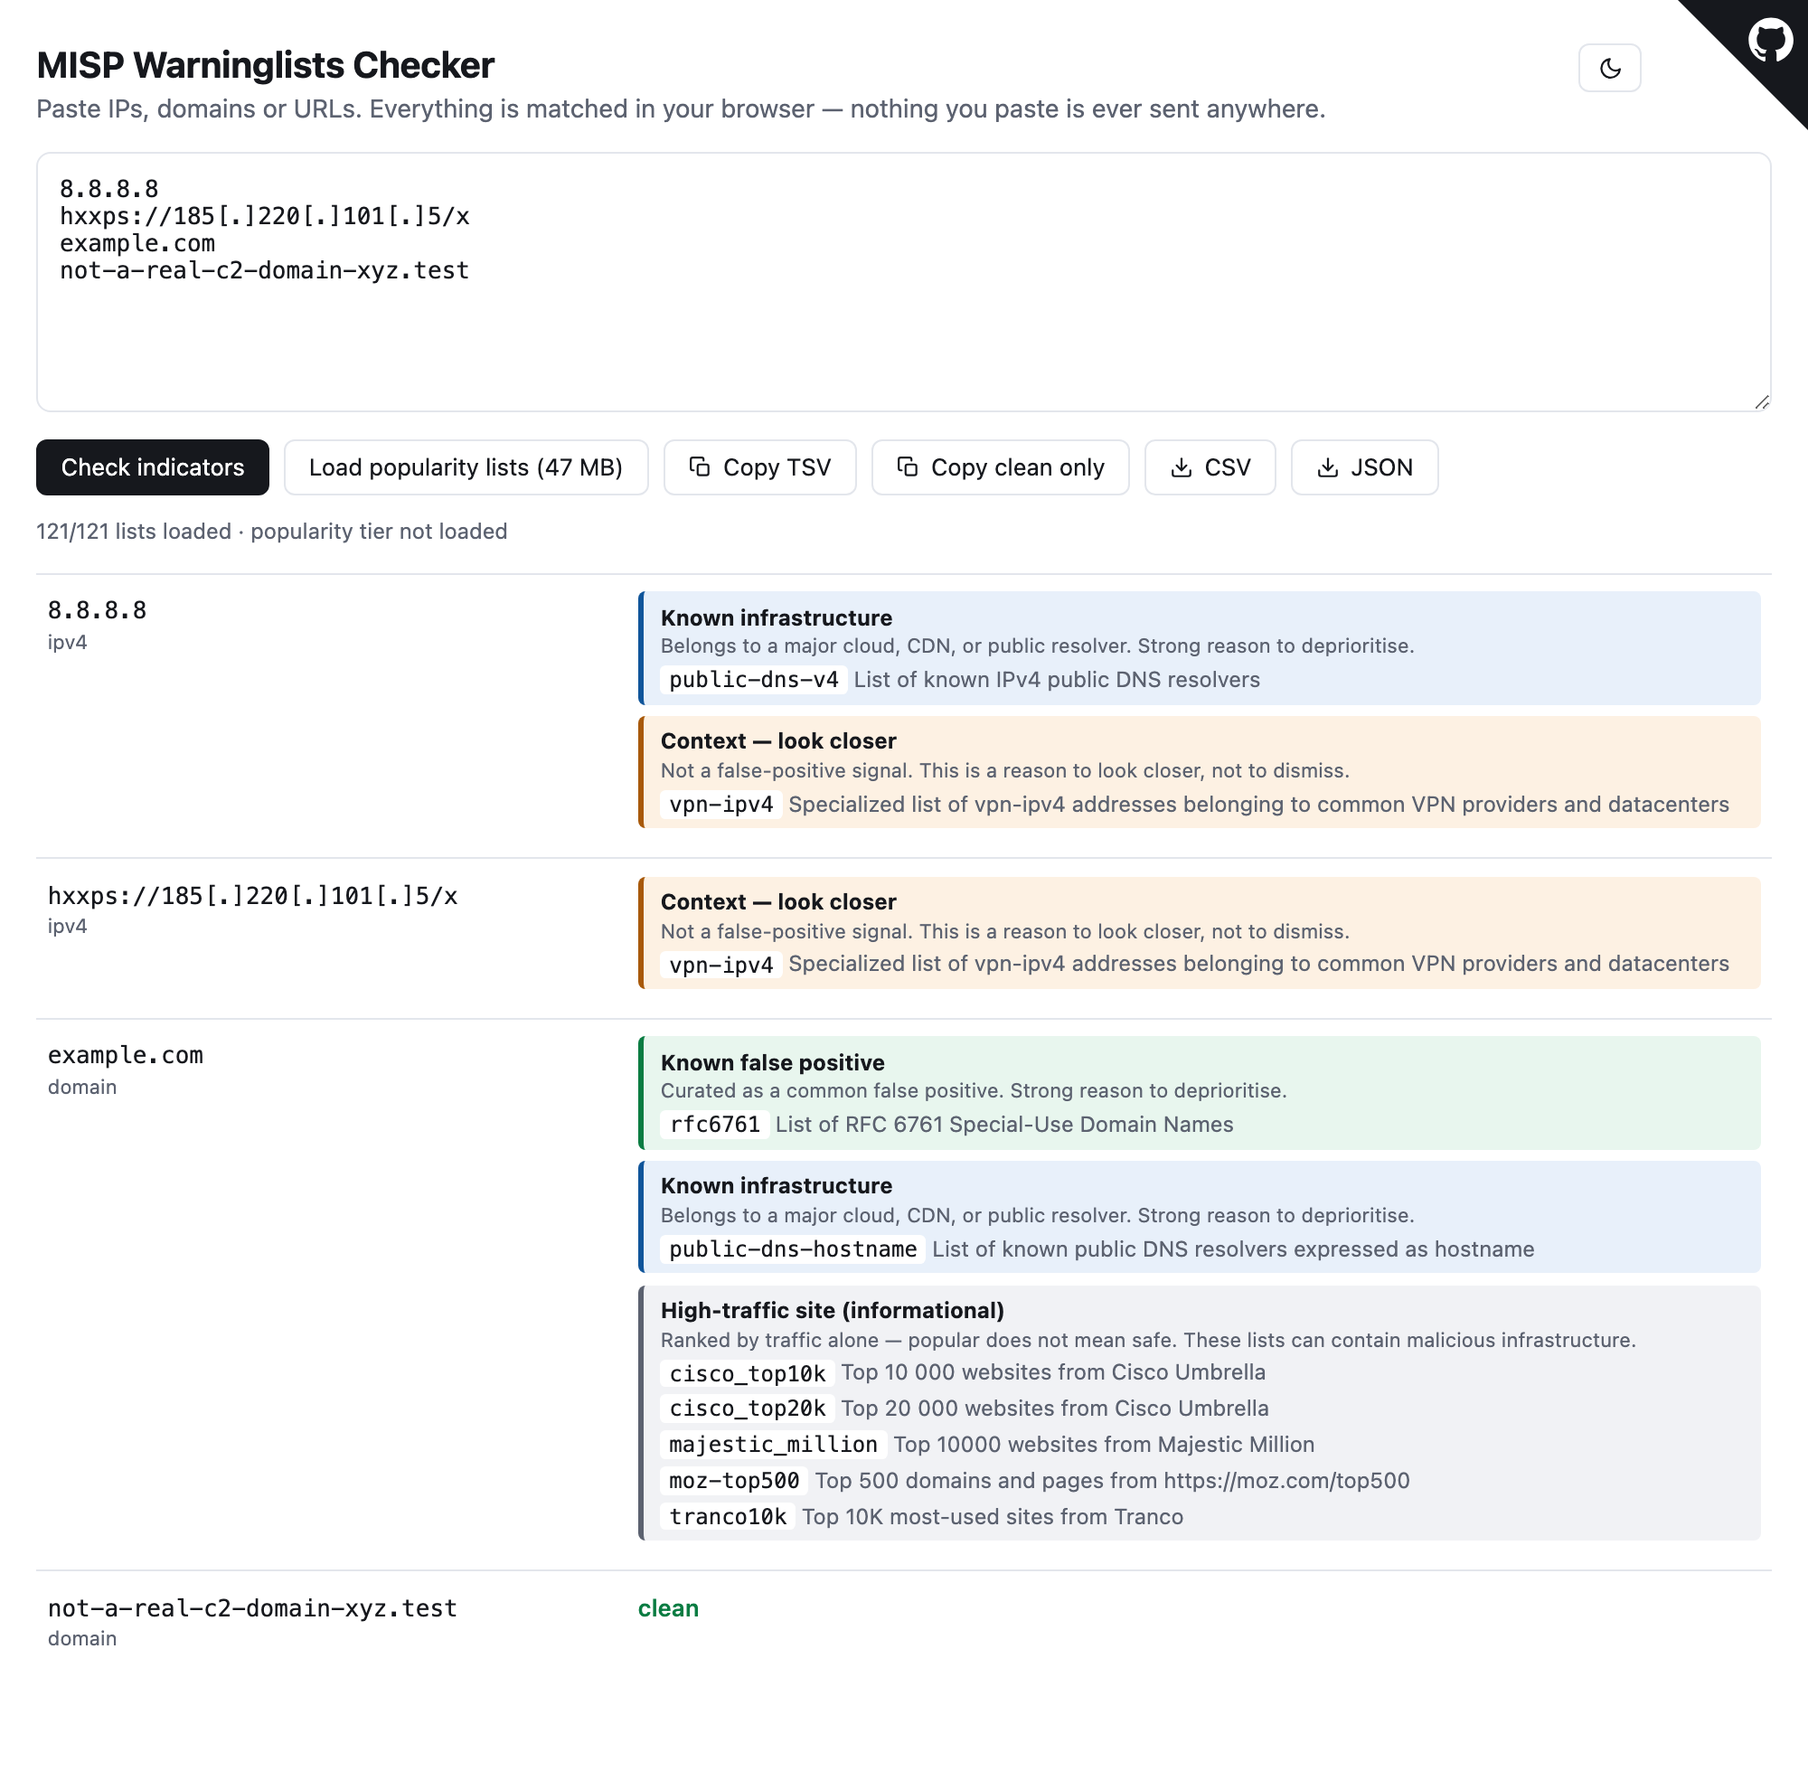
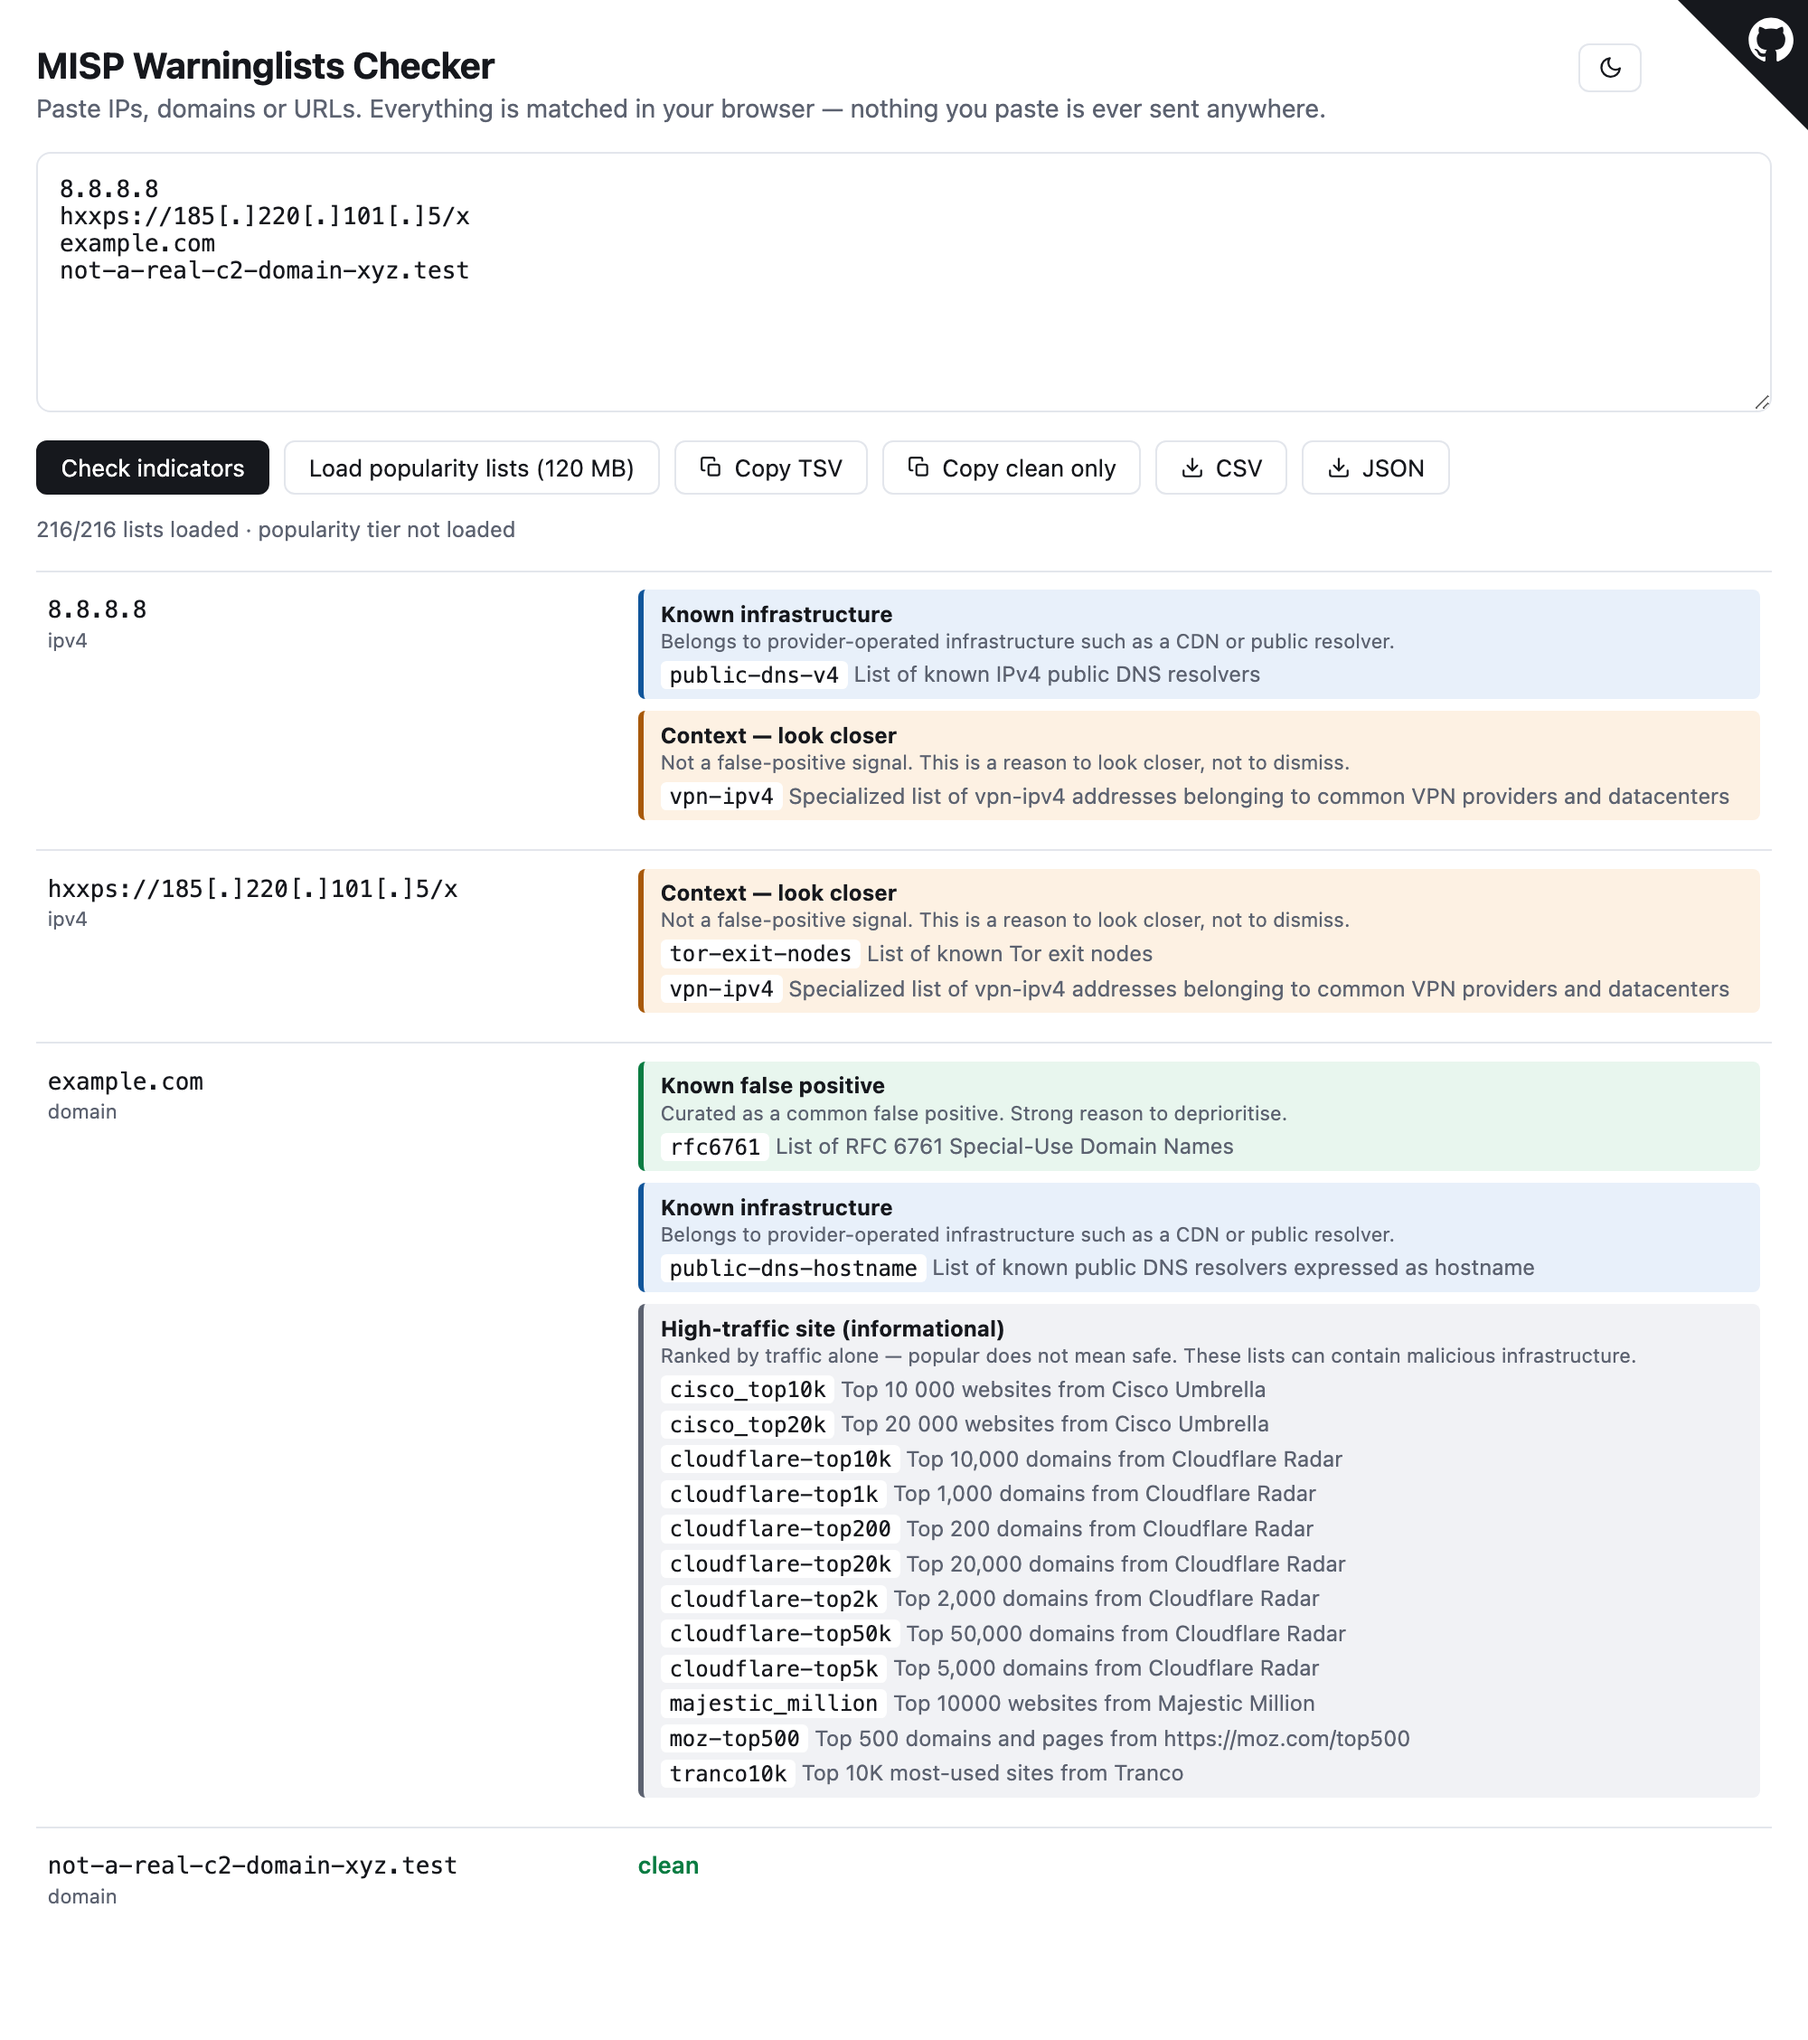
fix: treat rentable hosting as context

diff --git a/scripts/build-catalog.ts b/scripts/build-catalog.ts
@@ -16,22 +16,19 @@ const HEAVY = new Set([
 ])
 
 const INFRASTRUCTURE = new Set([
-  'akamai', 'amazon-aws', 'apple', 'cloudflare', 'fastly', 'github', 'google',
-  'google-gcp', 'google-gmail-sending-ips', 'googlebot', 'microsoft',
-  'microsoft-azure', 'microsoft-azure-appid', 'microsoft-azure-china',
-  'microsoft-azure-germany', 'microsoft-azure-us-gov', 'microsoft-office365',
+  'akamai', 'apple', 'cloudflare', 'fastly', 'github', 'google',
+  'google-gmail-sending-ips', 'googlebot', 'microsoft',
+  'microsoft-azure-appid', 'microsoft-office365',
   'microsoft-office365-cn', 'microsoft-office365-ip',
   'microsoft-win10-connection-endpoints', 'mozilla-CA', 'mozilla-IntermediateCA',
-  'ovh-cluster', 'public-dns-hostname', 'public-dns-v4', 'public-dns-v6',
+  'public-dns-hostname', 'public-dns-v4', 'public-dns-v6',
   'smtp-receiving-ips', 'smtp-sending-ips', 'stackpath', 'telegram-ips',
   'tenable-cloud-ipv4', 'tenable-cloud-ipv6', 'wikimedia', 'zscaler',
   'crl-hostname', 'crl-ip', 'captive-portals', 'openai-gptbot',
-  'alibaba-cloud', 'apple-domains', 'apple-ipv4', 'apple-ipv6', 'bunny-net',
-  'cachefly', 'cdn77', 'coreweave', 'digitalocean', 'gcore', 'godaddy',
-  'hetzner', 'huawei-cloud', 'ibm-cloud', 'imperva', 'leaseweb', 'linode',
-  'microsoft-mdca-proxy', 'microsoft-win11-connection-endpoints', 'oracle-oci',
-  'palo-alto-networks-cortex-cloud', 'rackspace', 'salesforce', 'scaleway',
-  'sucuri', 'tencent-cloud', 'vultr',
+  'apple-domains', 'apple-ipv4', 'apple-ipv6', 'bunny-net', 'cachefly', 'cdn77',
+  'gcore', 'imperva', 'microsoft-mdca-proxy',
+  'microsoft-win11-connection-endpoints', 'palo-alto-networks-cortex-cloud',
+  'salesforce', 'sucuri',
 ])
 
 const KNOWN_FP = new Set([
@@ -63,6 +60,12 @@ const CONTEXT = new Set([
   'umich-cse-connection-attempts', 'palo-alto-networks-cortex-xpanse',
   'common-contact-emails', 'phone_numbers',
   'tor-exit-nodes', 'icloud-private-relay', 'driftnet',
+  // These ranges identify a hosting provider, not whether its current tenant is benign.
+  'alibaba-cloud', 'amazon-aws', 'coreweave', 'digitalocean', 'godaddy',
+  'google-gcp', 'hetzner', 'huawei-cloud', 'ibm-cloud', 'leaseweb', 'linode',
+  'microsoft-azure', 'microsoft-azure-china', 'microsoft-azure-germany',
+  'microsoft-azure-us-gov', 'oracle-oci', 'ovh-cluster', 'rackspace',
+  'scaleway', 'tencent-cloud', 'vultr',
 ])
 
 /**

diff --git a/src/core/catalog.test.ts b/src/core/catalog.test.ts
@@ -4,18 +4,25 @@ import catalog from '../catalog.json'
 import { LOAD_TIERS, TIERS, type CatalogEntry } from './types'
 
 describe('assignTier', () => {
-  it('classifies cloud and CDN ranges as infrastructure', () => {
+  it('classifies provider-operated services as infrastructure', () => {
     expect(assignTier('cloudflare', 'cidr', ['ip-src'])).toBe('infrastructure')
-    expect(assignTier('amazon-aws', 'cidr', ['ip-src'])).toBe('infrastructure')
-    expect(assignTier('microsoft-azure', 'cidr', ['ip-src'])).toBe('infrastructure')
     expect(assignTier('public-dns-v4', 'cidr', ['ip-src'])).toBe('infrastructure')
     expect(assignTier('apple-domains', 'hostname', ['domain'])).toBe('infrastructure')
     expect(assignTier('apple-ipv4', 'cidr', ['ip-src'])).toBe('infrastructure')
     expect(assignTier('apple-ipv6', 'cidr', ['ip-src'])).toBe('infrastructure')
-    expect(assignTier('oracle-oci', 'cidr', ['ip-src'])).toBe('infrastructure')
     expect(assignTier('bunny-net', 'cidr', ['ip-src'])).toBe('infrastructure')
     expect(assignTier('microsoft-mdca-proxy', 'hostname', ['domain'])).toBe('infrastructure')
     expect(assignTier('palo-alto-networks-cortex-cloud', 'cidr', ['ip-src'])).toBe('infrastructure')
+  })
+
+  it.each([
+    'alibaba-cloud', 'amazon-aws', 'coreweave', 'digitalocean', 'godaddy',
+    'google-gcp', 'hetzner', 'huawei-cloud', 'ibm-cloud', 'leaseweb', 'linode',
+    'microsoft-azure', 'microsoft-azure-china', 'microsoft-azure-germany',
+    'microsoft-azure-us-gov', 'oracle-oci', 'ovh-cluster', 'rackspace',
+    'scaleway', 'tencent-cloud', 'vultr',
+  ])('classifies tenant-rentable provider %s as context', (name) => {
+    expect(assignTier(name, 'cidr', ['ip-src'])).toBe('context')
   })
 
   it('classifies curated false-positive lists as known-fp', () => {

diff --git a/src/ui/render.test.ts b/src/ui/render.test.ts
@@ -23,6 +23,10 @@ describe('TIER_META', () => {
     expect(TIER_META.context.caption.toLowerCase()).toContain('look closer')
   })
 
+  it('does not tell analysts to deprioritise infrastructure hits', () => {
+    expect(TIER_META.infrastructure.caption.toLowerCase()).not.toContain('deprioritise')
+  })
+
   it('orders strong false-positive signals before informational ones', () => {
     expect(TIER_META['known-fp'].order).toBeLessThan(TIER_META.popularity.order)
     expect(TIER_META.infrastructure.order).toBeLessThan(TIER_META.popularity.order)

diff --git a/src/ui/render.ts b/src/ui/render.ts
@@ -9,7 +9,7 @@ export const TIER_META: Record<Tier, { label: string; caption: string; order: nu
   },
   infrastructure: {
     label: 'Known infrastructure',
-    caption: 'Belongs to a major cloud, CDN, or public resolver. Strong reason to deprioritise.',
+    caption: 'Belongs to provider-operated infrastructure such as a CDN or public resolver.',
     order: 1,
   },
   context: {

diff --git a/README.md b/README.md
@@ -45,7 +45,7 @@ very different things. Two are easy to misread, so the UI labels them explicitly
 | Tier | Meaning |
 |---|---|
 | **Known false positive** | Curated as a common FP. Strong reason to deprioritise. |
-| **Known infrastructure** | Major cloud, CDN or public resolver. Strong reason to deprioritise. |
+| **Known infrastructure** | Provider-operated infrastructure such as a CDN or public resolver. |
 | **Context — look closer** | Dynamic DNS, VPN ranges, Tor exits, internet scanners. **Not** a safety signal — a reason to investigate further. |
 | **High-traffic site** | Informational only. **Popular does not mean safe.** |
 
